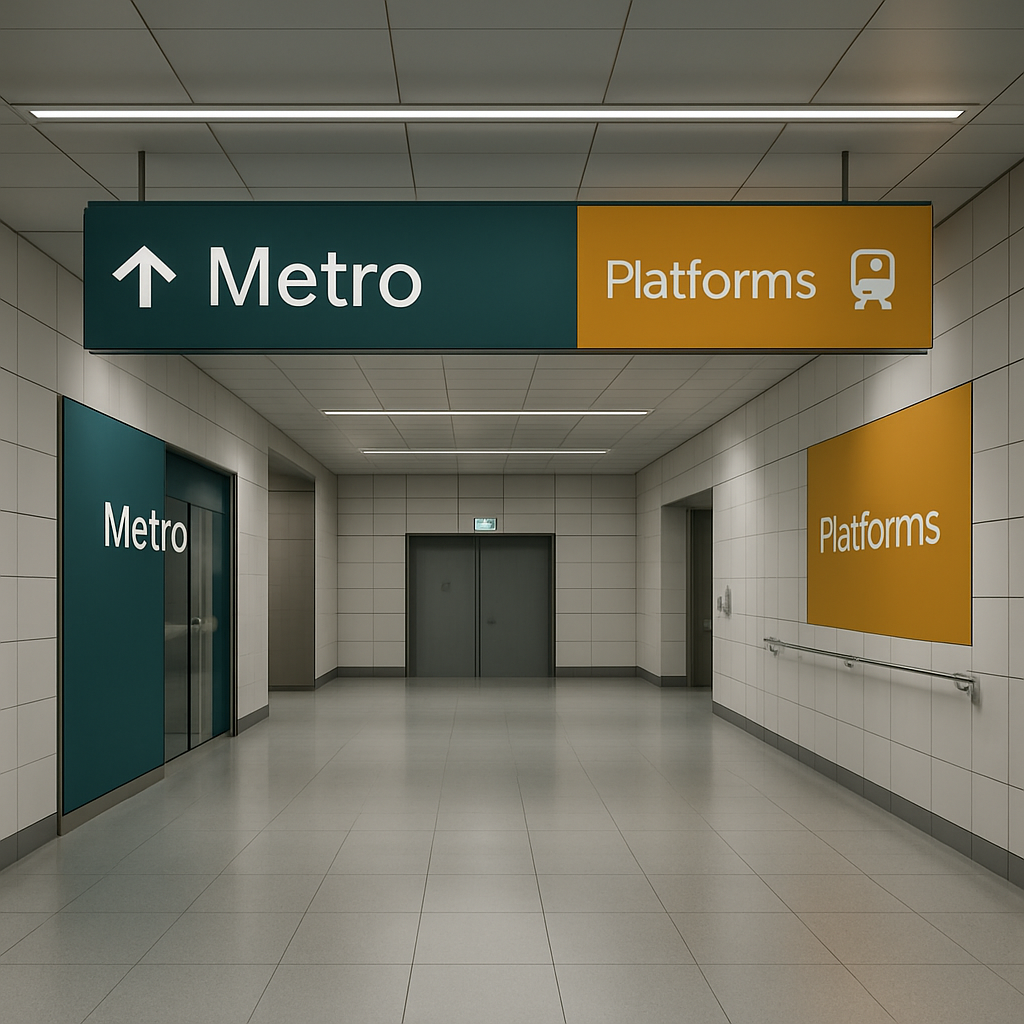
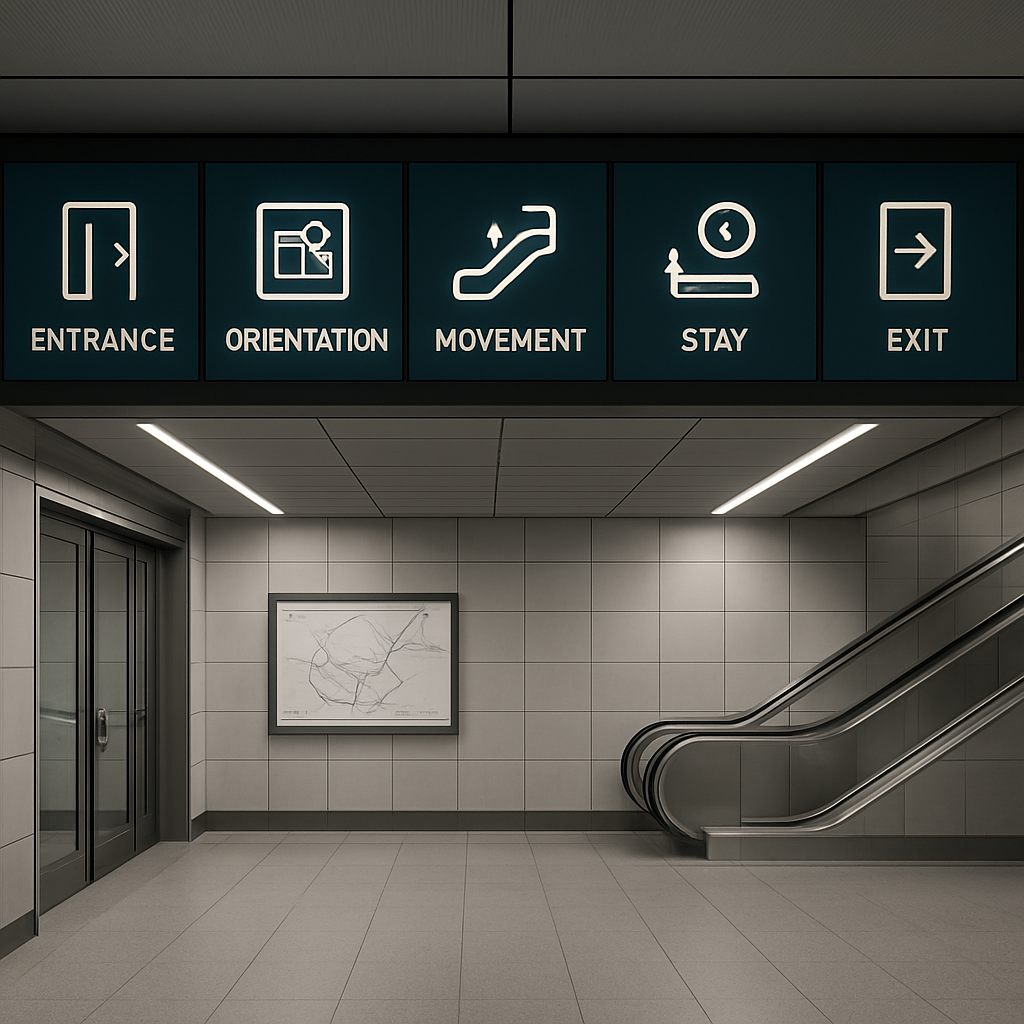
feat: add route point labels and update metro image

diff --git a/app/practica4/page.tsx b/app/practica4/page.tsx
@@ -497,8 +497,19 @@ export default function Practica4Page() {
                 </span>
               </div>
               <p className="text-sm text-teal-950/60 mt-2">
-                Единая навигация, спокойный фон, цветовое кодирование и световые акценты.
+                Единая система знаков для всех точек маршрута: спокойный фон, цветовое кодирование и
+                световые акценты.
               </p>
+              <div className="flex flex-wrap gap-2 mt-3">
+                {["Вход", "Ориентация", "Движение", "Пребывание", "Выход"].map((label) => (
+                  <span
+                    key={label}
+                    className="px-2.5 py-1 bg-teal-50 text-teal-800 text-xs font-medium rounded-full border border-teal-100"
+                  >
+                    {label}
+                  </span>
+                ))}
+              </div>
             </div>
           </div>
 
